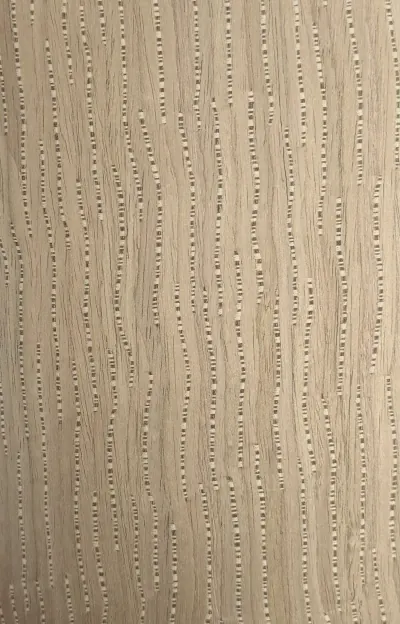
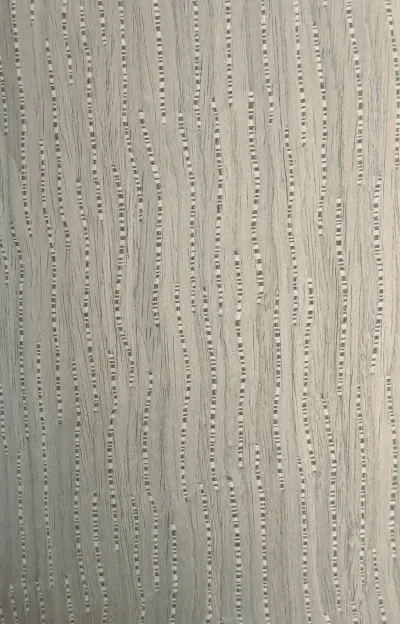
Replace the Berlin Pearl Stripes swatch with a new photograph
The new sheet shows the broken pale stripes running through the grey
grain more clearly. It keeps the tall shape the old swatch had, and the
address moves to ?v=3 so browsers drop the old picture. The hi-res sheet
and room views are unchanged.

diff --git a/src/data.js b/src/data.js
@@ -1437,7 +1437,7 @@ export const PRODUCTS = [
     species: 'Engineered Wood',
     idSpecies: 'Kayu Rekayasa',
     hiResImage: '/assets/hires/BERLIN PEARL STRIPES.png',
-    image: '/assets/image/BERLIN PEARL STRIPES.webp?v=2',
+    image: '/assets/image/BERLIN PEARL STRIPES.webp?v=3',
     bestFor: 'Avant-garde interiors, feature bar fronts, unique architectural doors',
     idBestFor: 'interior avant-garde, muka bar aksen, pintu arsitektural unik',
     finish: 'Matte',
